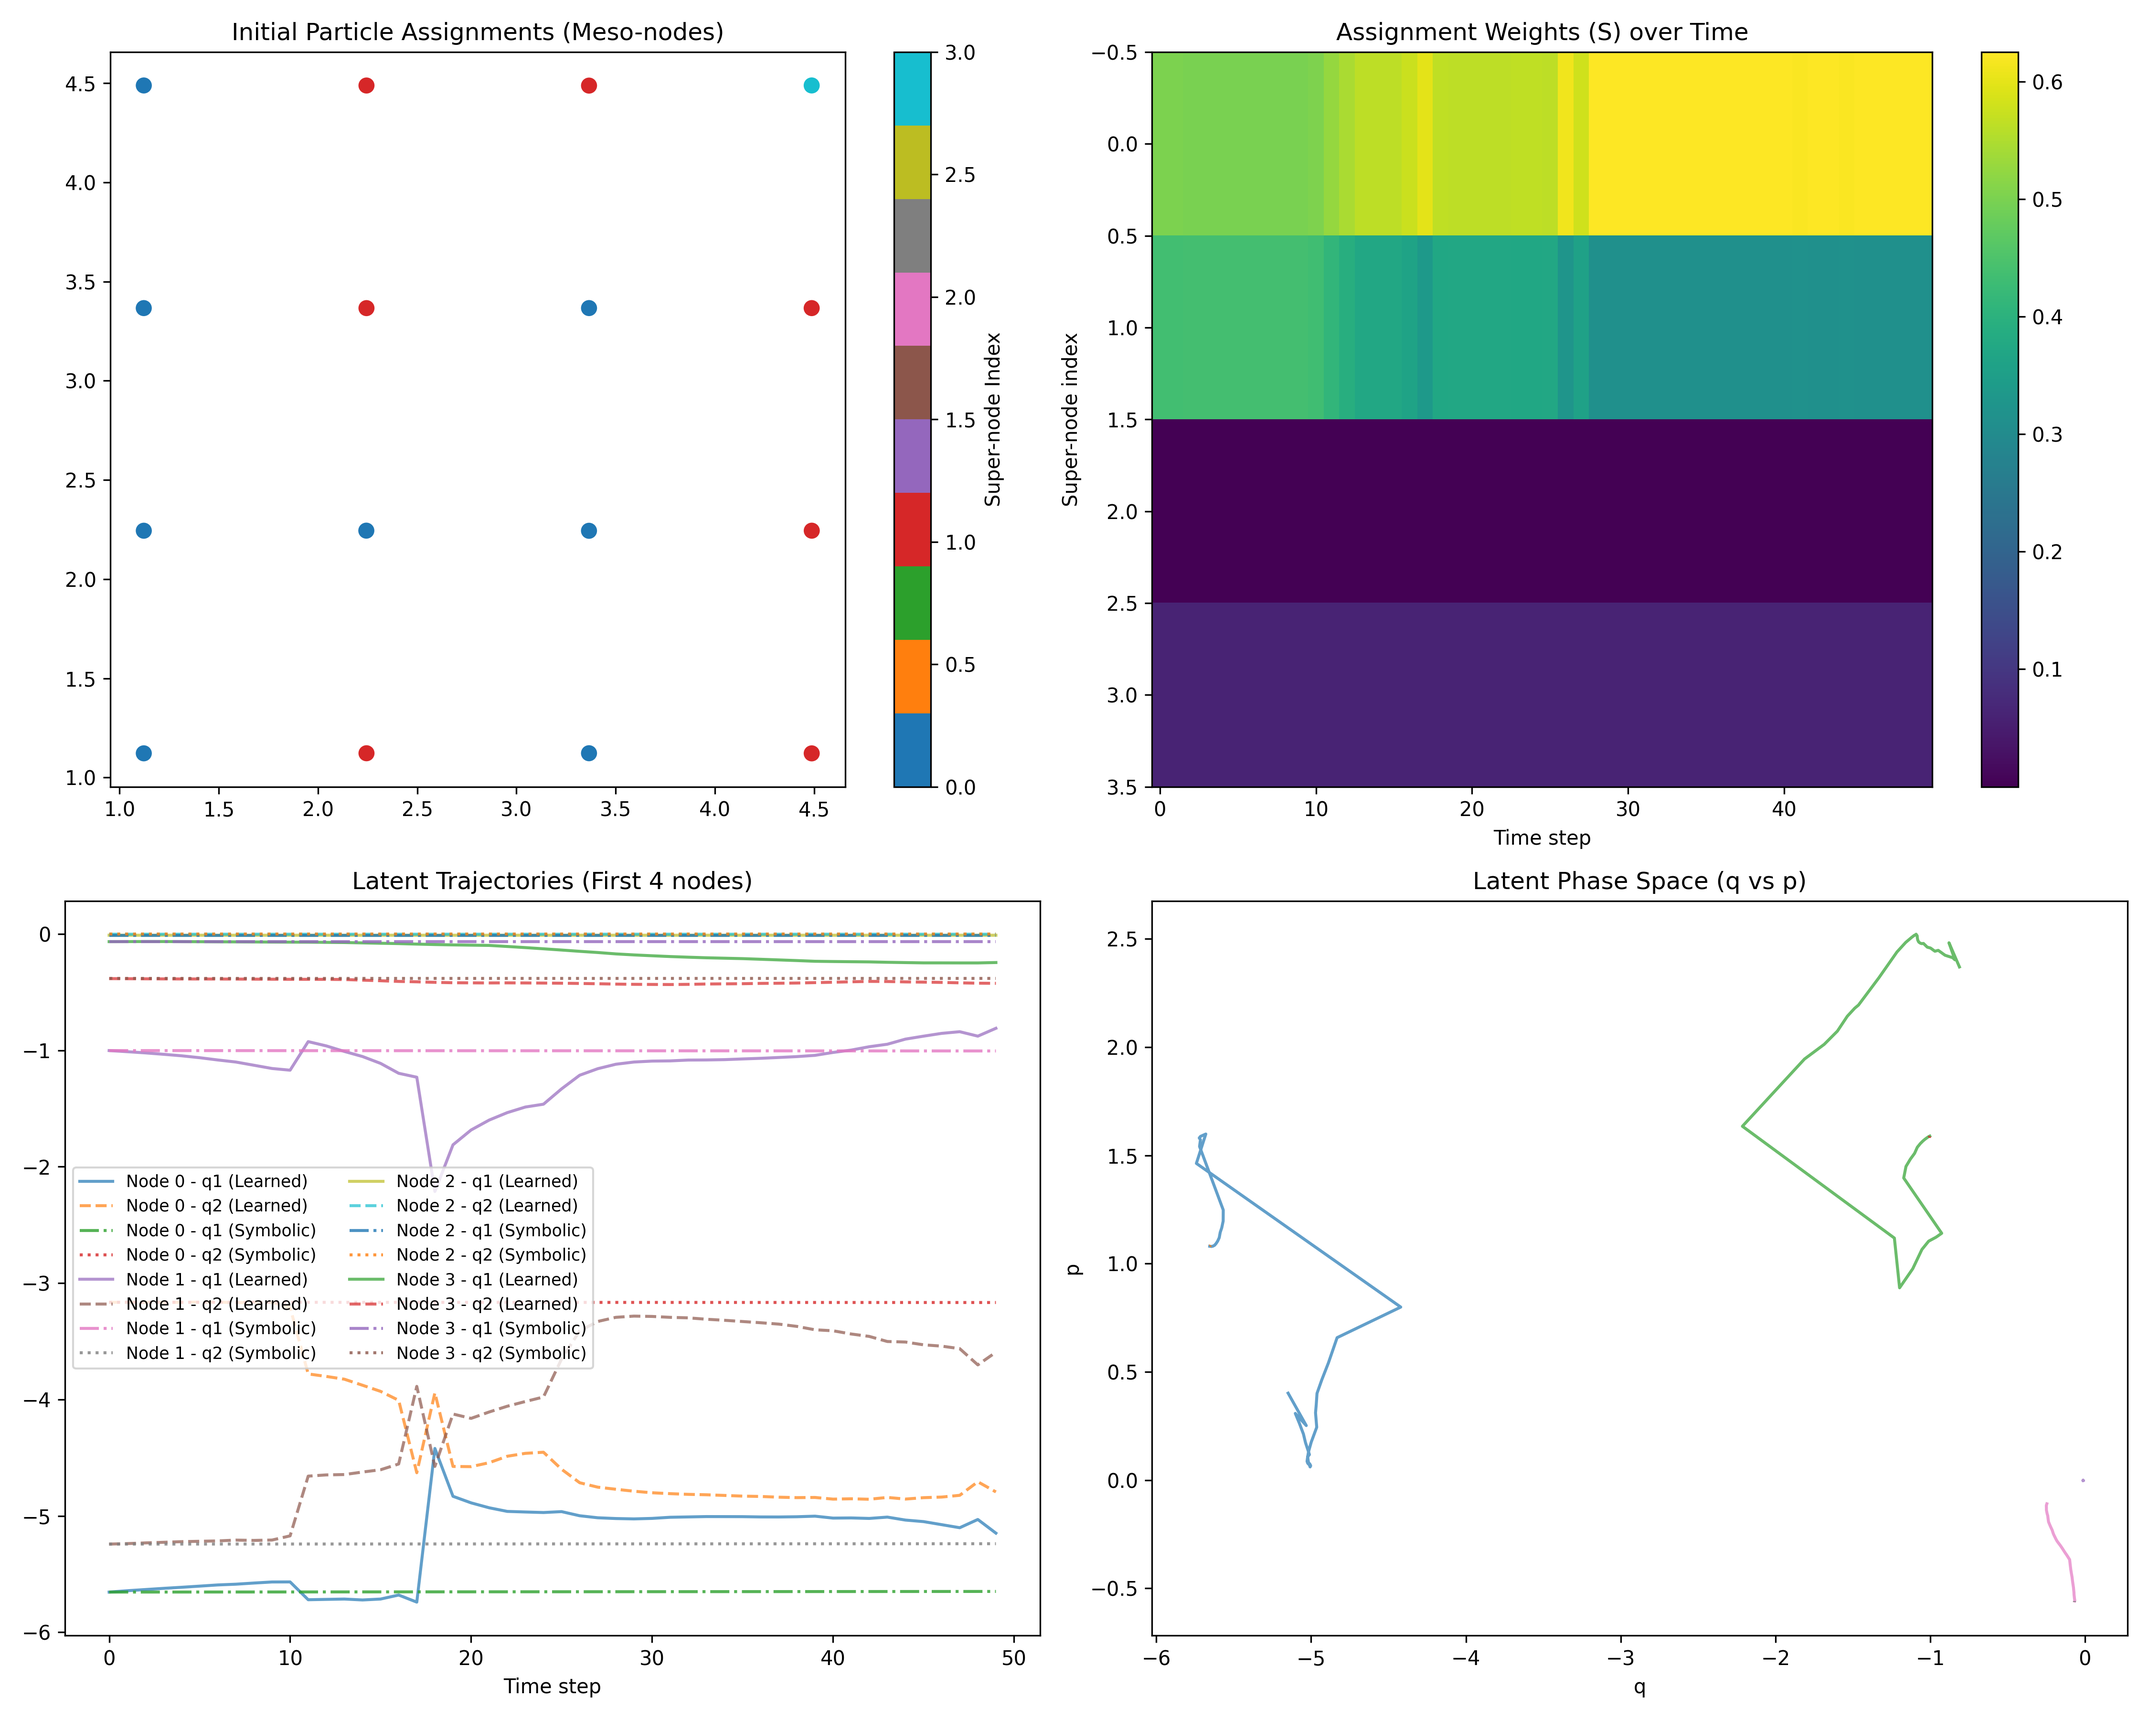
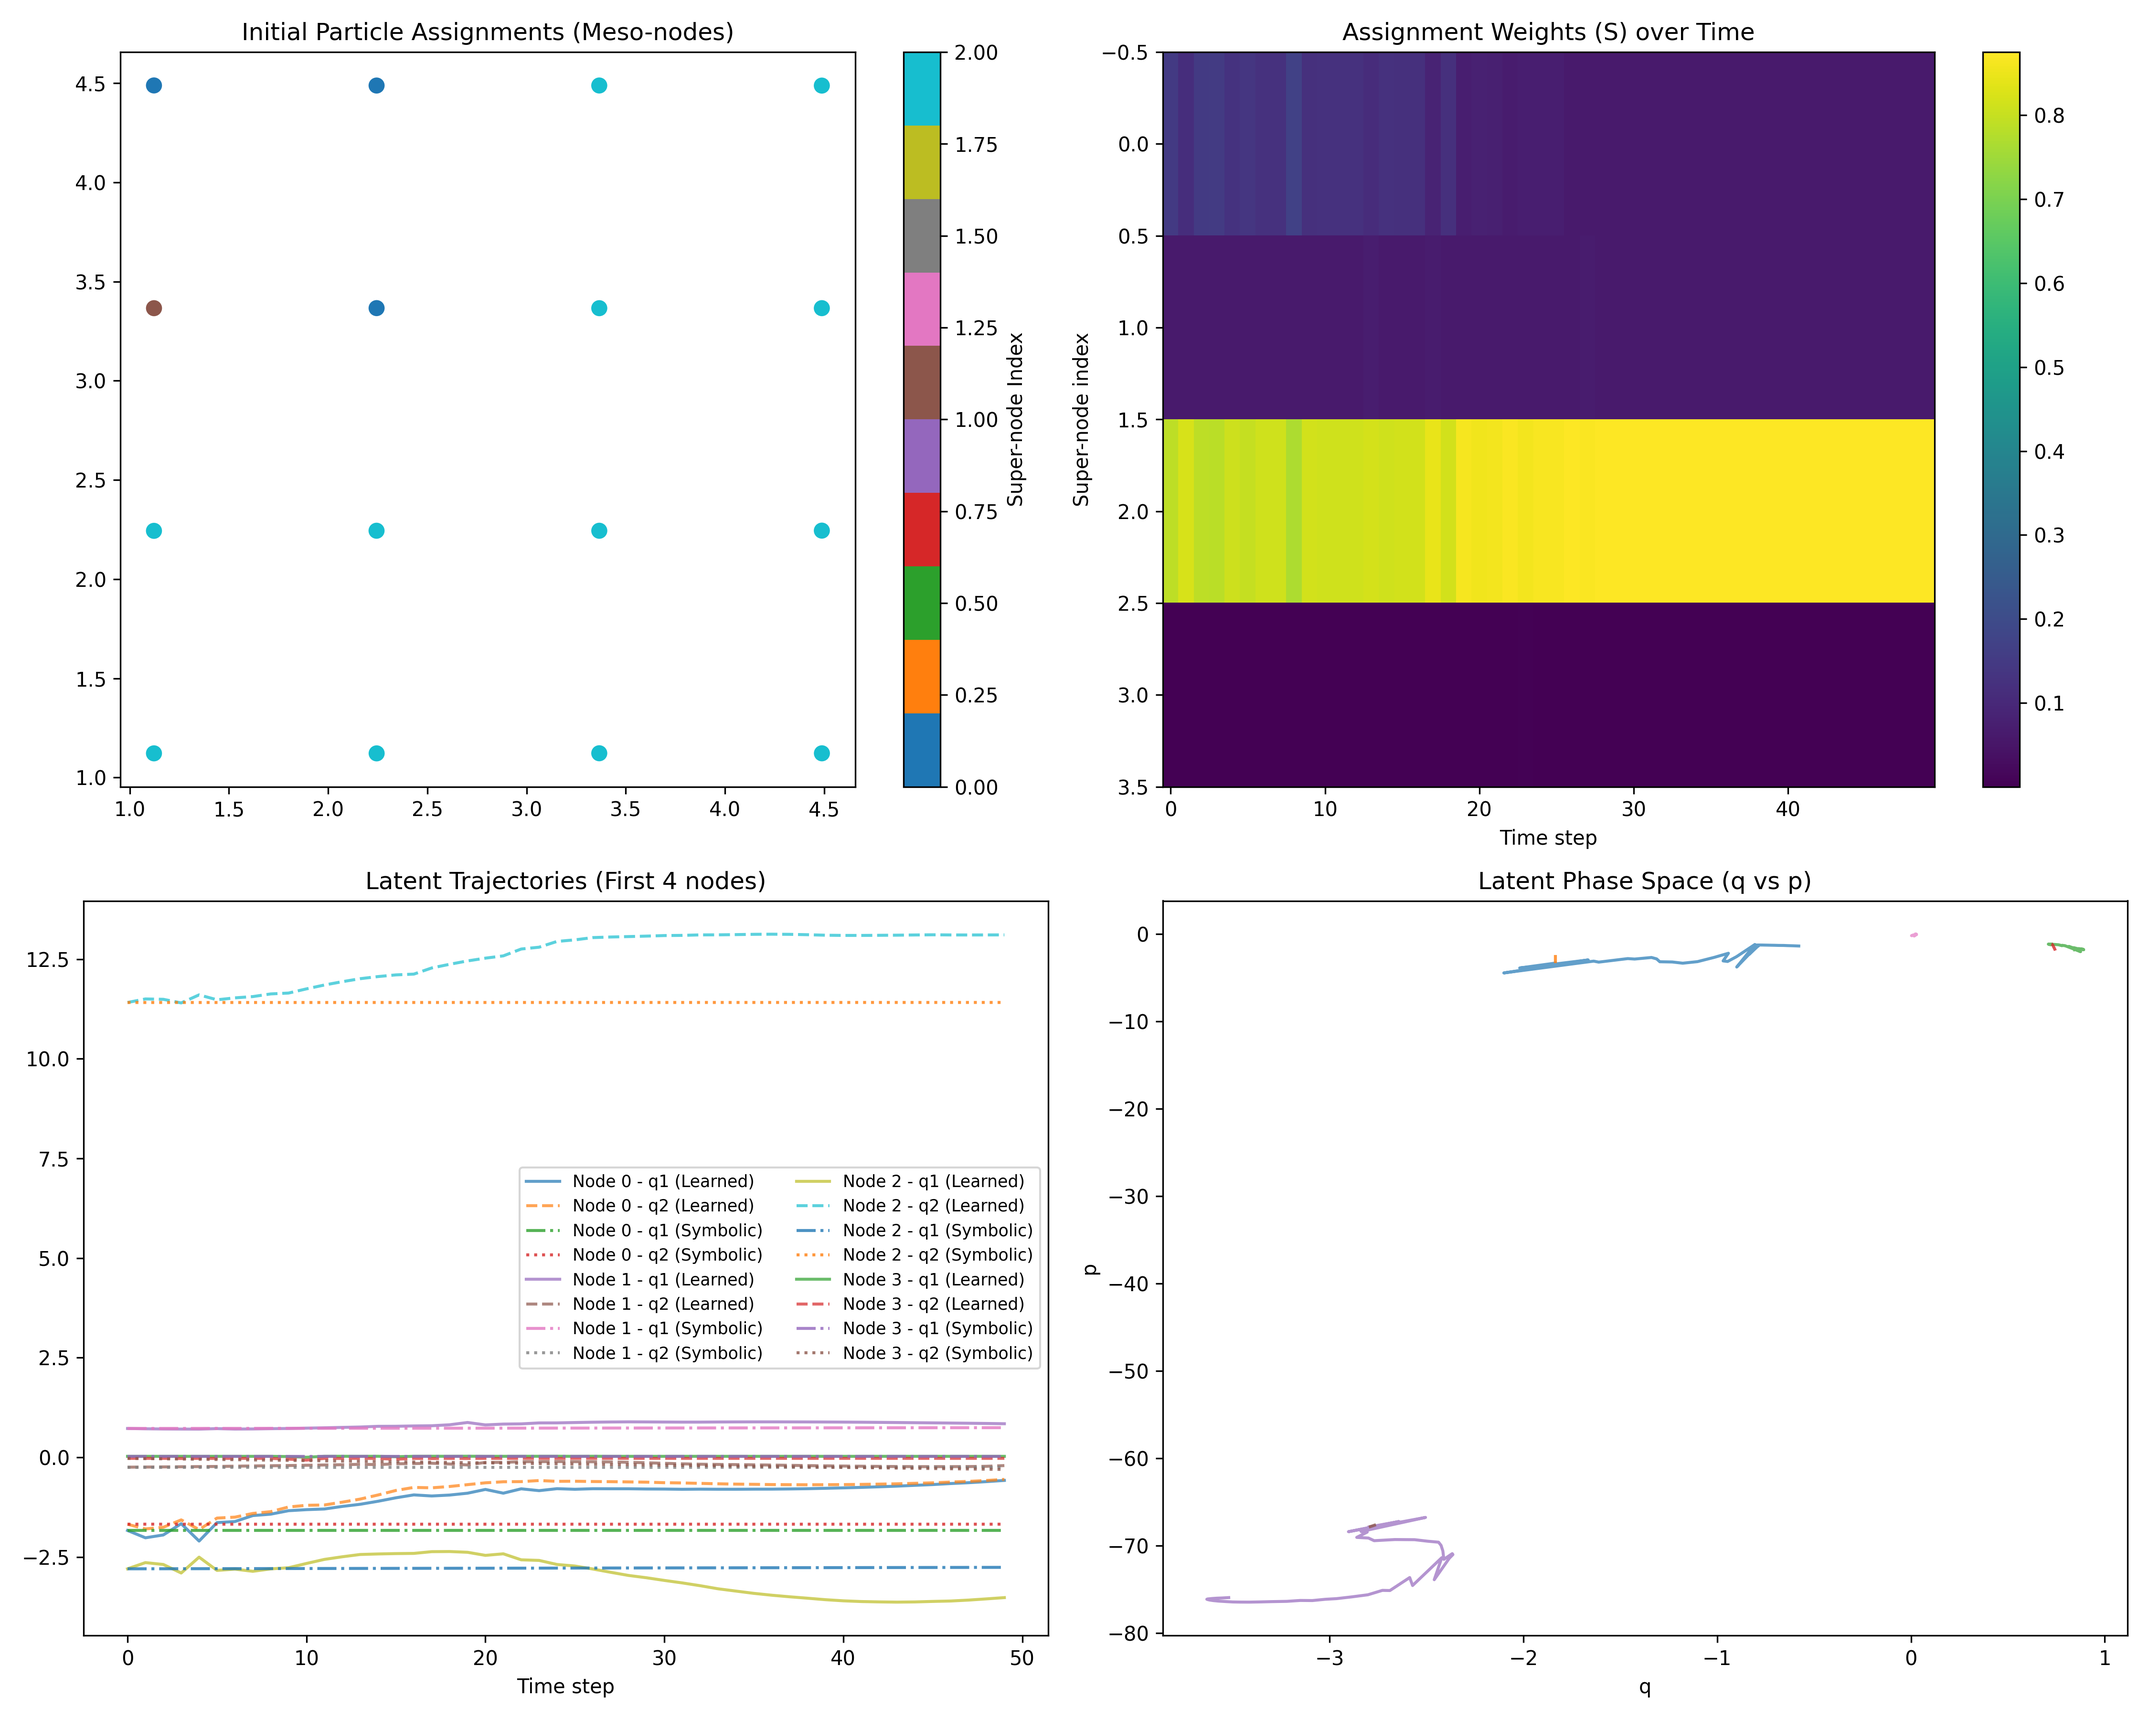
updated

diff --git a/engine.py b/engine.py
@@ -666,7 +666,12 @@ class Trainer:
         mu_range = torch.tensor(self.stats['pos_range'], device=self.device, dtype=torch.float32) if self.stats else 1
         seq_len = len(data_list)
 
-        for t in range(0, seq_len, 2):
+        for t in range(seq_len):
+            # To save computation, we only encode every 2nd step, but we always 
+            # ensure the last step is included for consistency checks
+            if t % 2 != 0 and t != seq_len - 1:
+                continue
+
             batch_t = Batch.from_data_list([data_list[t]]).to(self.device)
             # Pass s_prev for assignment persistence
             z_t_target, s_t, losses_t, mu_t = self.model.encode(batch_t.x, batch_t.edge_index, batch_t.batch, tau=tau, hard=hard, prev_assignments=s_prev)
@@ -705,16 +710,28 @@ class Trainer:
             loss_mi += self.model.get_mi_loss(z_preds[t], mu_t_norm)
 
             if t > 0:
+                # Add a small weight to the consistency term between assignments and positions
                 loss_assign += self.criterion(s_t, s_prev) + 10.0 * self.criterion(mu_t, mu_prev) + 0.5 * self.criterion(z_t_target, z_enc_prev)
-                if compute_consistency and not is_warmup: loss_cons += self.criterion(z_preds[t], z_t_target)
+                # Ensure consistency loss is added if compute_consistency is on
+                if compute_consistency and not is_warmup: 
+                    loss_cons += self.criterion(z_preds[t], z_t_target)
             s_prev, mu_prev, z_enc_prev = s_t, mu_t, z_t_target
 
-        n_steps = (seq_len // 2)
-        loss_rec /= n_steps
-        loss_cons /= (n_steps - 1) if (not is_warmup and compute_consistency) else 1
-        for l in [loss_assign, loss_pruning, loss_sparsity, loss_ortho, loss_sep, loss_conn]: l /= n_steps
-        loss_align /= (n_steps * self.model.encoder.n_super_nodes)
-        loss_mi /= (n_steps * self.model.encoder.n_super_nodes)
+        # Count how many steps were actually processed
+        processed_steps = sum(1 for t in range(seq_len) if (t % 2 == 0 or t == seq_len - 1))
+        loss_rec /= processed_steps
+        
+        # Calculate how many consistency comparisons were made (t > 0)
+        cons_steps = processed_steps - 1
+        if cons_steps > 0 and compute_consistency and not is_warmup:
+            loss_cons /= cons_steps
+        else:
+            # If no consistency steps or not computing it, keep it as is (likely 0.0)
+            pass
+
+        for l in [loss_assign, loss_pruning, loss_sparsity, loss_ortho, loss_sep, loss_conn]: l /= processed_steps
+        loss_align /= (processed_steps * self.model.encoder.n_super_nodes)
+        loss_mi /= (processed_steps * self.model.encoder.n_super_nodes)
 
         lvars = torch.clamp(self.model.log_vars, min=-6.0, max=5.0)
         if is_stage1: 
@@ -725,7 +742,8 @@ class Trainer:
 
         # NEW: Latent Activity penalty to prevent static latent trap
         if len(z_vel) > 0:
-            loss_activity = -0.1 * torch.log(z_vel.pow(2).mean() + 1e-6)
+            # INCREASED: Multiplier from 0.1 to 5.0 to strongly penalize static latents
+            loss_activity = -5.0 * torch.log(z_vel.pow(2).mean() + 1e-6)
             raw_losses['activity'] = loss_activity
 
         # Ensure all raw losses are float32 for stable balancing, especially on MPS
@@ -751,6 +769,10 @@ class Trainer:
             weights['assign'] = min(weights['assign'], 0.1)  # Much lower weight
             weights['ortho'] = min(weights['ortho'], 0.1)   # Suppress ortho loss
             weights['sparsity'] = min(weights['sparsity'], 0.1)  # Suppress sparsity loss
+            # DO NOT suppress activity or lvr - we need motion to learn physics
+            if 'activity' in weights:
+                weights['activity'] = max(weights['activity'], 2.0) # Boost activity during poor reconstruction
+            weights['lvr'] = max(weights['lvr'], 1.0)
         else:
             # Once reconstruction drops below 0.1, allow structural losses to resume
             if raw_losses['rec'].item() < 0.1:

diff --git a/stable_pooling.py b/stable_pooling.py
@@ -99,6 +99,19 @@ class StableHierarchicalPooling(nn.Module):
                     'balance': torch.tensor(0.0, device=x.device)}, \
                    None
 
+        # Ensure minimum number of super-nodes remain active to prevent total collapse
+        # We check this at the start to ensure the mask used for logits is valid
+        n_active_pre = (self.active_mask > 0.5).sum().item()
+        if n_active_pre < self.min_active_super_nodes:
+            # If history is available, use it to revive the most promising nodes
+            if self.history_counter > 0:
+                _, most_needed_indices = torch.topk(self.assignment_history, self.min_active_super_nodes, largest=True)
+            else:
+                # Otherwise just pick the first few
+                most_needed_indices = torch.arange(self.min_active_super_nodes, device=x.device)
+            self.active_mask.zero_()
+            self.active_mask[most_needed_indices] = 1.0
+
         logits = self.assign_mlp(x) * self.scaling
 
         # NEW: Assignment Persistence - bias logits by previous assignments to stabilize flickering
@@ -125,6 +138,10 @@ class StableHierarchicalPooling(nn.Module):
 
         avg_s = s.mean(dim=0)
 
+        # Update assignment history for future revival decisions
+        self.assignment_history.copy_(0.9 * self.assignment_history + 0.1 * avg_s.detach())
+        self.history_counter += 1
+
         # Update active_mask with exponential moving average for smoother updates
         # We allow updates during both soft and hard training to maintain consistency
         if self.training:
@@ -141,7 +158,7 @@ class StableHierarchicalPooling(nn.Module):
             effective_active = torch.clamp(current_active + revival_mask, 0, 1)
 
             # Use a much slower EMA for smoothness as requested
-            ema_rate = 0.0001 # Decreased from 0.001 to 0.0001 for much slower pruning
+            ema_rate = 0.00001 # Decreased from 0.0001 to 0.00001 for much slower pruning
             if hard:
                 ema_rate *= 0.5 # Even slower updates during hard sampling
 
@@ -210,7 +227,7 @@ class StableHierarchicalPooling(nn.Module):
 
         assign_losses = {
             'entropy': entropy,
-            'diversity': diversity_loss * 20.0, # Increased by 20x as requested
+            'diversity': diversity_loss * 200.0, # Increased from 20x to 200x as requested
             'spatial': spatial_loss,
             'pruning': pruning_loss,
             'sparsity': sparsity_loss * self.current_sparsity_weight,

diff --git a/enhanced_symbolic.py b/enhanced_symbolic.py
@@ -51,6 +51,7 @@ class SymPyToTorch(torch.nn.Module):
             sp.Function('neg'): torch.neg,
             sp.Function('inv'): lambda x: 1.0 / (x + self.eps),
             sp.Function('square'): lambda x: torch.pow(x, 2),
+            sp.Function('inv_square'): lambda x: 1.0 / (torch.pow(x, 2) + self.eps),
         }
 
     def _safe_div(self, x, y):
@@ -217,18 +218,23 @@ class TorchFeatureTransformer(torch.nn.Module):
         X_expanded = torch.nan_to_num(X_expanded, nan=0.0, posinf=1e9, neginf=-1e9)
         X_expanded = torch.clamp(X_expanded, -1e12, 1e12)
 
-        # 1. Normalize using FULL buffers
-        X_norm_full = (X_expanded - self.x_poly_mean) / self.x_poly_std
-
-        # 2. Apply feature mask AFTER normalization to match distilled feature set
+        # 1. Apply feature mask IMMEDIATELY after expansion and BEFORE normalization
         if self.feature_mask is not None and self.feature_mask.numel() > 0:
             mask = self.feature_mask.to(X_expanded.device)
             # Ensure indices are within bounds
-            valid_mask = mask[mask < X_norm_full.size(1)]
-            X_norm_selected = X_norm_full[:, valid_mask]
+            valid_mask = mask[mask < X_expanded.size(1)]
+            X_selected = X_expanded[:, valid_mask]
+            
+            # 2. Mask normalization buffers accordingly
+            mu = self.x_poly_mean[valid_mask]
+            std = self.x_poly_std[valid_mask]
+            
+            # 3. Normalize selected features
+            X_norm_selected = (X_selected - mu) / std
             return X_norm_selected
 
-        return X_norm_full
+        # Fallback to full normalization if no mask
+        return (X_expanded - self.x_poly_mean) / self.x_poly_std
 
     def _compute_distance_features(self, z_nodes):
         """

diff --git a/symbolic.py b/symbolic.py
@@ -67,8 +67,10 @@ class SymbolicDistiller:
 
     def _get_regressor(self, pop, gen, parsimony=0.02):
         square = make_function(function=lambda x: x**2, name='square', arity=1)
+        # Added inv_square to better capture 1/r^6 and 1/r^12 terms in LJ systems
+        inv_square = make_function(function=lambda x: 1.0/(x**2 + 1e-9), name='inv_square', arity=1)
         return SymbolicRegressor(population_size=pop, generations=gen, parsimony_coefficient=parsimony,
-                                 function_set=('add', 'sub', 'mul', safe_div, safe_sqrt, safe_log, 'abs', 'neg', safe_inv, square),
+                                 function_set=('add', 'sub', 'mul', safe_div, safe_sqrt, safe_log, 'abs', 'neg', safe_inv, square, inv_square),
                                  n_jobs=1, random_state=42, verbose=0)
 
     def _select_features(self, X, y):
@@ -176,6 +178,6 @@ def extract_latent_data(model, dataset, dt, include_hamiltonian=False):
     return np.array(states), np.array(derivs), np.linspace(0, len(states)*dt, len(states))
 
 def gp_to_sympy(expr_str, *args, **kwargs):
-    local_dict = {'add': lambda x,y: x+y, 'sub': lambda x,y: x-y, 'mul': lambda x,y: x*y, 'div': lambda x,y: x/(y+1e-9), 'sqrt': lambda x: sp.sqrt(sp.Abs(x)), 'log': lambda x: sp.log(sp.Abs(x)+1e-9), 'abs': sp.Abs, 'neg': lambda x: -x, 'inv': lambda x: 1.0/(x+1e-9), 'square': lambda x: x**2}
+    local_dict = {'add': lambda x,y: x+y, 'sub': lambda x,y: x-y, 'mul': lambda x,y: x*y, 'div': lambda x,y: x/(y+1e-9), 'sqrt': lambda x: sp.sqrt(sp.Abs(x)), 'log': lambda x: sp.log(sp.Abs(x)+1e-9), 'abs': sp.Abs, 'neg': lambda x: -x, 'inv': lambda x: 1.0/(x+1e-9), 'square': lambda x: x**2, 'inv_square': lambda x: 1.0/(x**2+1e-9)}
     return sp.sympify(expr_str, locals=local_dict)
 

diff --git a/unified_train.py b/unified_train.py
@@ -137,16 +137,16 @@ def main():
 
         print("Performing symbolic distillation...")
         if args.hamiltonian:
-            # Reduce populations and generations for faster execution
-            populations = 500 if args.quick_symbolic else 2000
-            generations = 10 if args.quick_symbolic else 40
+            # INCREASED: populations to 5000 and generations to 100 for better convergence
+            populations = 1000 if args.quick_symbolic else 5000
+            generations = 20 if args.quick_symbolic else 100
             from hamiltonian_symbolic import HamiltonianSymbolicDistiller
             distiller = HamiltonianSymbolicDistiller(populations=populations, generations=generations)
             equations = distiller.distill(z_states, dz_states, args.super_nodes, 4, model=model)
         else:
-            # Reduce populations and generations for faster execution
-            populations = 500 if args.quick_symbolic else 2000
-            generations = 10 if args.quick_symbolic else 40
+            # INCREASED: populations to 5000 and generations to 100 for better convergence
+            populations = 1000 if args.quick_symbolic else 5000
+            generations = 20 if args.quick_symbolic else 100
             from symbolic import SymbolicDistiller
             distiller = SymbolicDistiller(populations=populations, generations=generations)
             equations = distiller.distill(z_states, dz_states, args.super_nodes, 4)

diff --git a/common_losses.py b/common_losses.py
@@ -135,8 +135,8 @@ def compute_assignment_loss(losses_t, entropy_weight):
         Combined assignment loss
     """
     return (
-        entropy_weight * losses_t['entropy'] +
-        5.0 * losses_t['diversity'] +
+        0.5 * entropy_weight * losses_t['entropy'] +
+        2.5 * losses_t['diversity'] +
         1.0 * losses_t['spatial'] + # Increased 10x
         2.0 * losses_t.get('collapse_prevention', 0.0) +
         2.0 * losses_t.get('balance', 0.0) +
